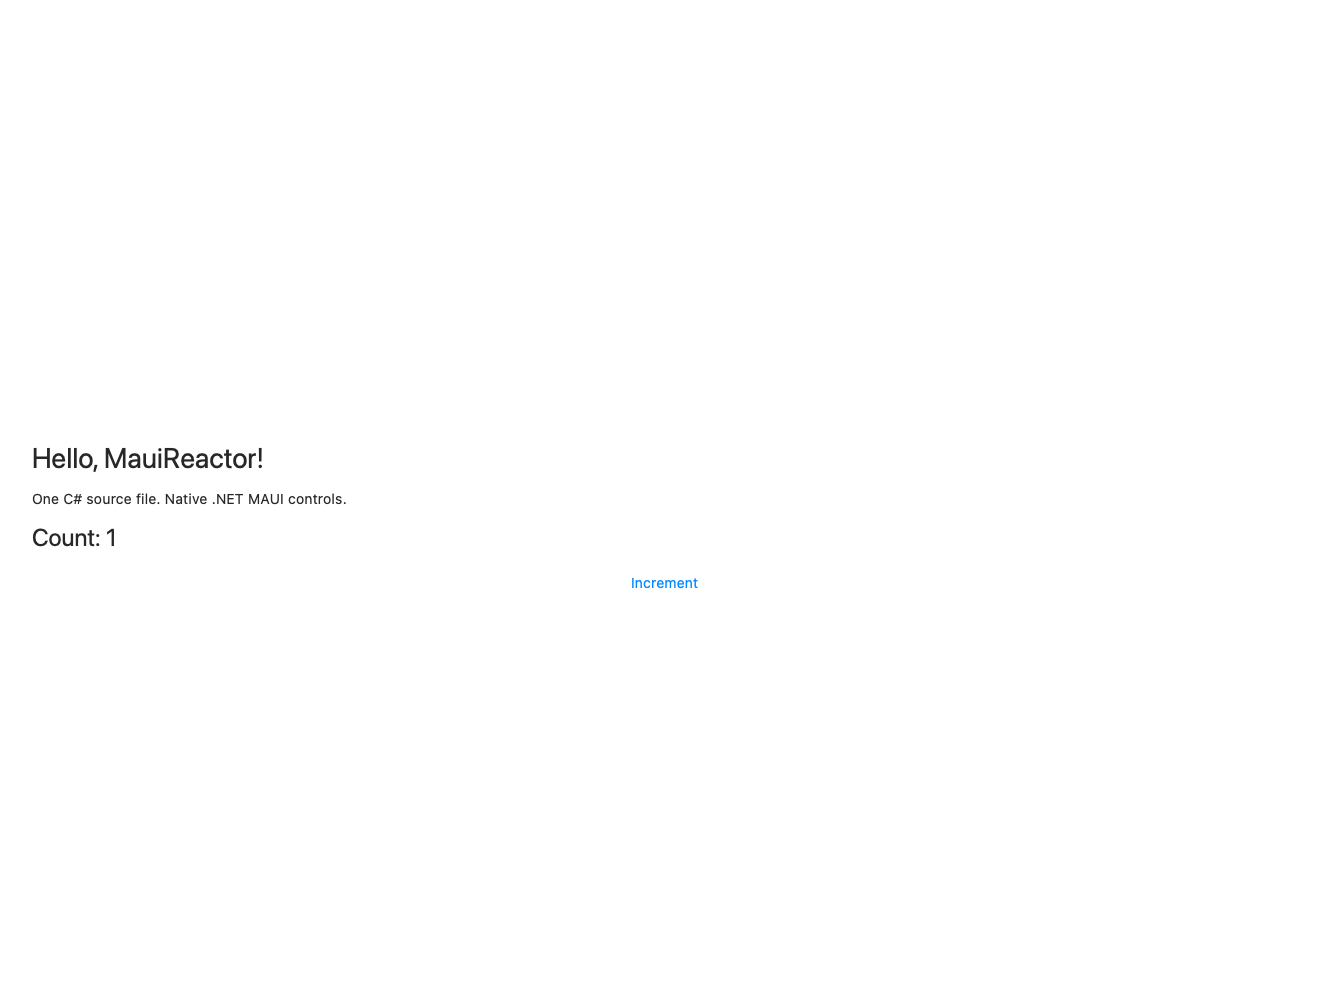
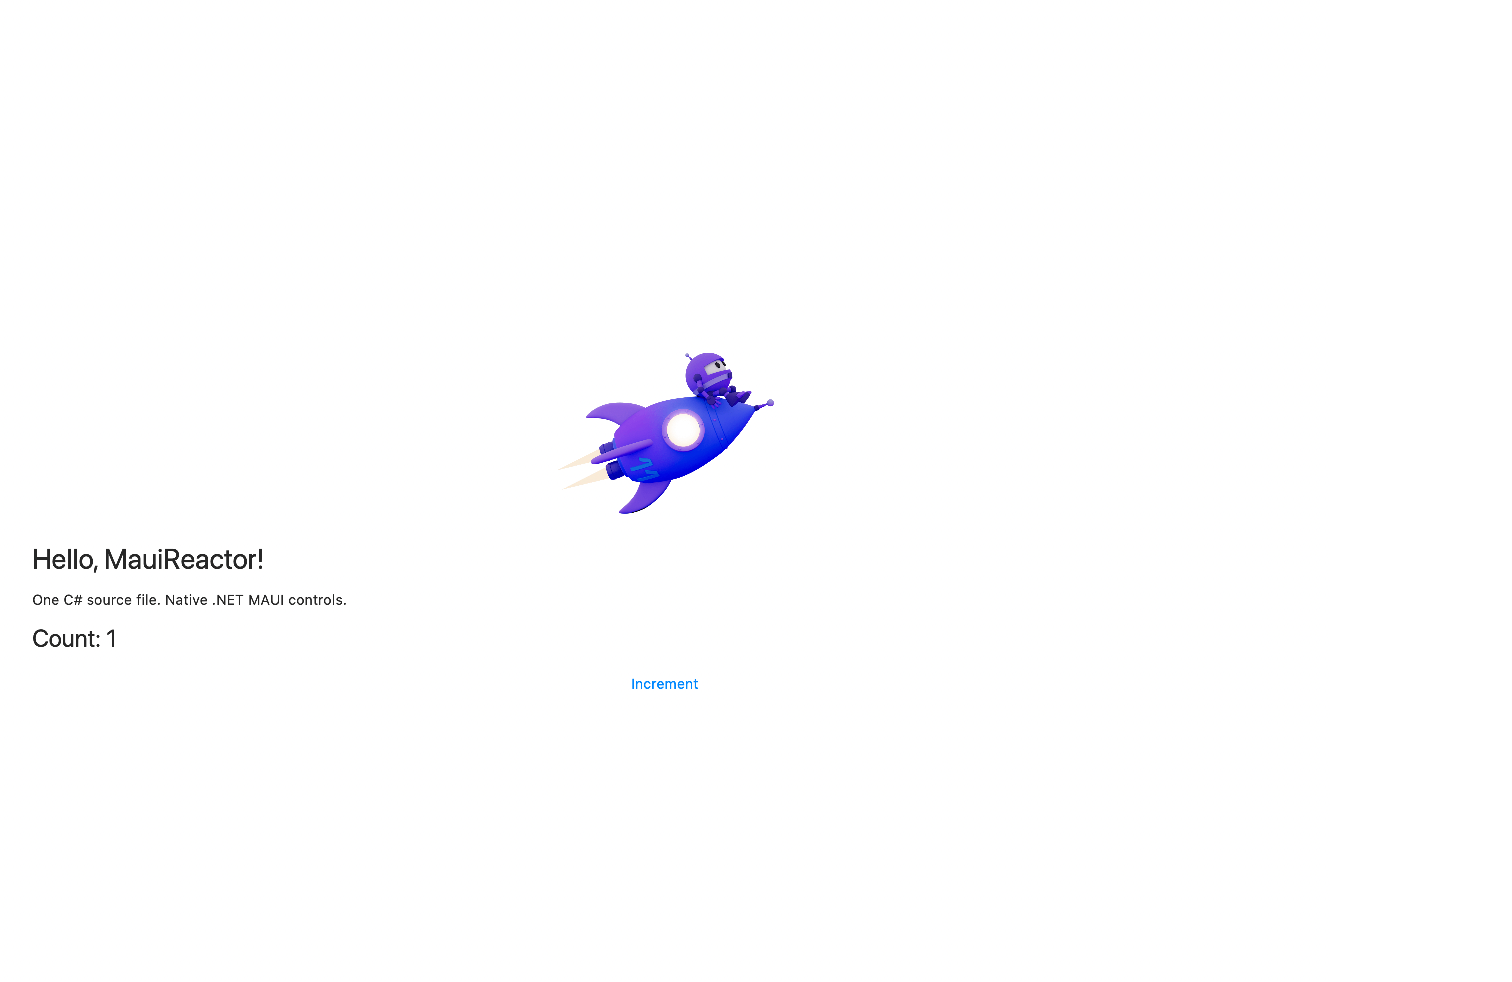
Add Resources/ asset support and .NET 11 bot sample (0.1.0-preview.2)
- SDK includes Resources/Images, Resources/Fonts, and Resources/Raw next to
  app.cs and registers fonts by file name.
- Set FileBasedProgramCanSkipMSBuild=false so an unchanged rerun opens the app.
- Counter sample and template show the .NET 11 MAUI template dotnet_bot.png
  (dotnet/maui 4438dc6).
- README: supported targets and an assets snippet; docs, blog, and hero
  screenshot updated.

diff --git a/samples/Counter/app.cs b/samples/Counter/app.cs
@@ -1,4 +1,4 @@
-#:sdk MauiReactor.FileBased.Sdk@0.1.0-preview.1
+#:sdk MauiReactor.FileBased.Sdk@0.1.0-preview.2
 
 public class CounterState
 {
@@ -10,6 +10,9 @@ public class App : Component<CounterState>
     public override VisualNode Render()
         => ContentPage(
             VStack(
+                Image("dotnet_bot.png")
+                    .HeightRequest(185)
+                    .AutomationId("dotnet-bot"),
                 Label("Hello, MauiReactor!").FontSize(28),
                 Label("One C# source file. Native .NET MAUI controls."),
                 Label($"Count: {State.Count}")

diff --git a/src/MauiReactor.Sdk/Sdk/Startup.cs b/src/MauiReactor.Sdk/Sdk/Startup.cs
@@ -19,7 +19,9 @@ public class AppDelegate : MauiUIApplicationDelegate
 {
     protected override MauiApp CreateMauiApp()
     {
-        var builder = MauiApp.CreateBuilder().UseMauiReactorApp<global::App>();
+        var builder = MauiApp.CreateBuilder()
+            .UseMauiReactorApp<global::App>()
+            .ConfigureFonts(MauiReactorFileBasedFonts.Register);
 #if DEBUG && MAUI_REACTOR_DEVFLOW
         builder.AddMauiDevFlowAgent();
 #endif

diff --git a/docs/getting-started.md b/docs/getting-started.md
@@ -95,6 +95,7 @@ Published package visibility is controlled separately from repository visibility
 dotnet run samples/Counter/app.cs
 ```
 
+The window shows the .NET bot image from `samples/Counter/Resources/Images/`.
 Click **Increment**. The counter changes from `Count: 0` to `Count: 1`.
 The value is in-memory component state. It resets when the process exits.
 
@@ -113,14 +114,15 @@ cd artifacts/HelloReactor
 dotnet run app.cs
 ```
 
-The output is one `app.cs` file. It inherits the feed and .NET 10 selection
+The output is one `app.cs` file and the `Resources/Images/dotnet_bot.png` image
+it shows. It inherits the feed and .NET 10 selection
 from the sample's parent directories. The app title defaults to `HelloReactor`.
 The template does not run restore or change a global NuGet configuration.
 
 To generate somewhere else, put a `NuGet.config` in that location or a parent
 directory. Copy this checkout's `NuGet.config` and `global.json`, and set the
 same credential environment variable in your shell. You can then install this
-template by its checkout path and generate the same single C# file.
+template by its checkout path and generate the same single C# file and image.
 
 If an older checkout has already installed `maui-reactor-file`, the template
 engine can report conflicting templates. `dotnet new uninstall` lists the
@@ -134,7 +136,7 @@ source files. Do not remove another project's registration without checking it.
 The complete app is:
 
 ```csharp
-#:sdk MauiReactor.FileBased.Sdk@0.1.0-preview.1
+#:sdk MauiReactor.FileBased.Sdk@0.1.0-preview.2
 
 public class CounterState
 {
@@ -146,6 +148,9 @@ public class App : Component<CounterState>
     public override VisualNode Render()
         => ContentPage(
             VStack(
+                Image("dotnet_bot.png")
+                    .HeightRequest(185)
+                    .AutomationId("dotnet-bot"),
                 Label("Hello, MauiReactor!").FontSize(28),
                 Label("One C# source file. Native .NET MAUI controls."),
                 Label($"Count: {State.Count}")
@@ -167,7 +172,7 @@ parameterless constructor. The SDK's startup calls
 
 `Component<CounterState>` supplies `State` and `SetState`. The button callback
 changes state, and MauiReactor updates the native MAUI controls.
-`ContentPage`, `VStack`, `Label`, and `Button` are inherited factory methods.
+`ContentPage`, `VStack`, `Image`, `Label`, and `Button` are inherited factory methods.
 They keep the markup free of constructor syntax.
 
 The SDK adds `global using MauiReactor`. It disables implicit MAUI namespace
@@ -180,7 +185,7 @@ types. Add explicit namespace imports for other libraries when needed.
 support SDK, package, and property directives:
 
 ```csharp
-#:sdk MauiReactor.FileBased.Sdk@0.1.0-preview.1
+#:sdk MauiReactor.FileBased.Sdk@0.1.0-preview.2
 #:property ApplicationTitle=MyCounter
 #:property ApplicationId=com.example.mycounter
 ```
@@ -224,6 +229,57 @@ Apple SDK 27 requires scene-based lifecycle adoption. Omitting that metadata
 caused a native launch failure during development. The packaged manifest keeps
 this requirement out of the user's C# source.
 
+## Add images, fonts, and files
+
+Put resources in `Resources/` folders next to `app.cs`, as in a regular MAUI
+project:
+
+```text
+MyApp/
+├── app.cs
+└── Resources/
+    ├── Images/dotnet_bot.png
+    ├── Fonts/OpenSans-Semibold.ttf
+    └── Raw/data/hello.json
+```
+
+The .NET MAUI SDK does not add these folders by default. This SDK adds them,
+relative to the directory that contains `app.cs`:
+
+| Folder | MSBuild item | Use in code |
+|---|---|---|
+| `Resources/Images/**` | `MauiImage` | `Image("dotnet_bot.png")` |
+| `Resources/Fonts/**` | `MauiFont` | `.FontFamily("OpenSans-Semibold")` |
+| `Resources/Raw/**` | `MauiAsset`, logical name keeps the subfolder path | `FileSystem.OpenAppPackageFileAsync("data/hello.json")` |
+
+- **Images.** MAUI's resizetizer converts SVG files to PNG, so refer to
+  `logo.svg` as `"logo.png"`. The SDK does not set `BaseSize`. Set the size in
+  markup, for example `.HeightRequest(185)`.
+- **Fonts.** The SDK generates a `ConfigureFonts` registration for every file in
+  `Resources/Fonts/`. The alias is the file name without its extension. You do
+  not write a `MauiProgram`.
+- **Raw files.** Read them with `FileSystem.OpenAppPackageFileAsync`. Add
+  `using Microsoft.Maui.Storage;`, because the SDK disables implicit MAUI imports.
+  Use the same rule for `Aspect` and other MAUI types: add `using Microsoft.Maui;`
+  or use the full type name.
+
+Items that you already declared are not added twice. To add your own items only,
+turn off the automatic folders:
+
+```csharp
+#:property MauiReactorEnableDefaultResourceItems=false
+```
+
+The sample's `dotnet_bot.png` is the unchanged .NET 11 MAUI template image from
+[dotnet/maui](https://github.com/dotnet/maui):
+`src/Templates/src/templates/maui-mobile/Resources/Images/dotnet_bot.png`, added
+in commit
+[`4438dc6`](https://github.com/dotnet/maui/commit/4438dc6258f42593cd43da4db7527be96c78e69e)
+("Update .NET 11 template bot artwork", dotnet/maui#37785).
+
+App icons (`MauiIcon`) and splash screens (`MauiSplashScreen`) are not
+configured automatically.
+
 ## Inspect the app with DevFlow
 
 The SDK includes and registers the DevFlow agent only for Debug builds.
@@ -266,7 +322,10 @@ This check is not a store-distribution or security audit.
 ## Edit and rerun
 
 Quit the app, edit `app.cs`, and run `dotnet run app.cs` again. The .NET SDK
-rebuilds changed source. A second `open` of a running Mac Catalyst app can reuse
+rebuilds changed source. The SDK sets `FileBasedProgramCanSkipMSBuild=false`, so
+a rerun always goes through MSBuild and opens the app bundle. Without it, an
+unchanged rerun in preview.1 could run the DLL directly and fail with a
+`libhostpolicy.dylib` error. A second `open` of a running Mac Catalyst app can reuse
 the existing process, so quit before checking a source edit.
 
 Reactive updates through `SetState` are runtime state changes. They are separate
@@ -294,6 +353,18 @@ still needs a compatible workload, simulator or device, and platform-specific
 deployment settings. This guide does not claim that changing one directive
 proves that platform.
 
+### Known issue: very deep source folders
+
+With the Mac Catalyst workload 26.2.10191, a build can fail in the `Codesign`
+task with `Access to the path '/Users/Library' is denied`. This occurs when the
+folder that contains `app.cs` is about ten or more levels below `/`. The Apple
+SDK computes a stamp-file path relative to the source folder, but the file-based
+build output is in `~/Library/Application Support/dotnet/runfile/`, so the path
+climbs above your home folder. Move the app to a shorter path, for example
+`~/src/MyApp/app.cs`. The Apple SDK fix is
+[dotnet/macios#27050](https://github.com/dotnet/macios/pull/27050)
+(dotnet/macios#26867); a workload that contains it was not checked here.
+
 MauiReactor itself supports more targets than this small sample SDK. Use the
 upstream template for those platforms.
 
@@ -303,7 +374,7 @@ This is a **standalone native app**, not a companion-hosted script. The .NET SDK
 builds the source into an app bundle in its file-based build cache. There is no
 Go server, QR pairing step, or network code loader.
 
-The prototype has no app icon, custom fonts, splash assets, privacy permission
+The prototype has no app icon, splash assets, privacy permission
 strings, signing setup, entitlements file, or store packaging workflow.
 It does not enable Reactor's code hot reload or provide multi-file authoring.
 Counter state is not persistent storage.
@@ -348,7 +419,7 @@ Local development does not need a GitHub publishing token:
 ```console
 dotnet pack src/MauiReactor.Sdk/MauiReactor.Sdk.csproj -o artifacts/feed
 mkdir -p artifacts/LocalCounter
-cp samples/Counter/app.cs artifacts/LocalCounter/app.cs
+cp -R samples/Counter/app.cs samples/Counter/Resources artifacts/LocalCounter/
 ```
 
 Create `artifacts/NuGet.config` with the following content. Its paths are relative

diff --git a/README.md b/README.md
@@ -4,8 +4,13 @@ Build a native .NET MAUI app in one C# file. Describe the UI with
 [MauiReactor](https://github.com/adospace/reactorui-maui) control methods,
 update component state, and run it with `dotnet run app.cs`.
 
+**Supported targets in this preview:** Mac Catalyst on Apple Silicon is tested.
+iOS startup is included, but builds and runtime behavior are untested.
+Android, Windows, and Linux are **not supported**; the SDK reports an error for
+these targets. Use a standard MauiReactor project for other platforms.
+
 ```csharp
-#:sdk MauiReactor.FileBased.Sdk@0.1.0-preview.1
+#:sdk MauiReactor.FileBased.Sdk@0.1.0-preview.2
 
 public class CounterState
 {
@@ -17,6 +22,9 @@ public class App : Component<CounterState>
     public override VisualNode Render()
         => ContentPage(
             VStack(
+                Image("dotnet_bot.png")
+                    .HeightRequest(185)
+                    .AutomationId("dotnet-bot"),
                 Label("Hello, MauiReactor!").FontSize(28),
                 Label("One C# source file. Native .NET MAUI controls."),
                 Label($"Count: {State.Count}")
@@ -32,7 +40,7 @@ public class App : Component<CounterState>
 }
 ```
 
-That is the complete counter. You write the component while a small MSBuild SDK
+That is the complete counter, plus one image file in `Resources/Images/`. You write the component while a small MSBuild SDK
 supplies package references, native startup, application defaults, and the Apple
 scene manifest. There is no user-authored project file or XAML.
 
@@ -114,15 +122,42 @@ integrated. The SDK includes DevFlow in Debug builds for UI inspection and
 automation; [omit it](docs/getting-started.md#inspect-the-app-with-devflow)
 with `#:property MauiReactorEnableDevFlow=false`.
 
+## Add images, fonts, and files
+
+Put resources in `Resources/` folders next to `app.cs`, as in a regular MAUI
+project. The SDK includes them automatically:
+
+```text
+MyApp/
+├── app.cs
+└── Resources/
+    ├── Images/dotnet_bot.png        → MauiImage
+    ├── Fonts/OpenSans-Semibold.ttf  → MauiFont
+    └── Raw/data/hello.json          → MauiAsset
+```
+
+Refer to them with standard MAUI names:
+
+```csharp
+Image("dotnet_bot.png").HeightRequest(185)          // SVG files become PNG: use "name.png"
+Label("Hi").FontFamily("OpenSans-Semibold")         // font alias = file name without extension
+await FileSystem.OpenAppPackageFileAsync("data/hello.json");
+```
+
+The SDK registers each font for you. See
+[Add images, fonts, and files](docs/getting-started.md#add-images-fonts-and-files)
+for details and the opt-out property.
+
 ## Know the limits
 
 | Target or feature | Status |
 |---|---|
 | Mac Catalyst, Apple Silicon | Sample and template launch; counter interaction checked |
 | iOS | Startup source included; build and runtime untested |
-| Android, Windows, Linux | No startup implementation in this SDK |
+| Android, Windows, Linux | Not supported; the SDK reports an error for these targets |
 | Hot reload | Not integrated; quit, edit, rerun |
-| Icons, resources, signing, store packaging | Not configured |
+| Images, fonts, raw files | Included from `Resources/Images`, `Resources/Fonts`, `Resources/Raw` |
+| App icon, splash screen, signing, store packaging | Not configured |
 | SDK distribution | GitHub Packages preview; authentication required |
 | Template distribution | Install from this checkout |
 

diff --git a/docs/blog-draft.md b/docs/blog-draft.md
@@ -34,7 +34,7 @@ The source includes iOS startup, but Android and Windows startup are not include
 ## Start with the app
 
 ```csharp
-#:sdk MauiReactor.FileBased.Sdk@0.1.0-preview.1
+#:sdk MauiReactor.FileBased.Sdk@0.1.0-preview.2
 
 public class CounterState
 {
@@ -46,6 +46,9 @@ public class App : Component<CounterState>
     public override VisualNode Render()
         => ContentPage(
             VStack(
+                Image("dotnet_bot.png")
+                    .HeightRequest(185)
+                    .AutomationId("dotnet-bot"),
                 Label("Hello, MauiReactor!").FontSize(28),
                 Label("One C# source file. Native .NET MAUI controls."),
                 Label($"Count: {State.Count}")
@@ -65,7 +68,12 @@ That is the full user-authored application. The root component is a public
 `App` class in the global namespace. The SDK supplies a `MauiReactor` namespace
 import, so the component can use the library's inherited control methods.
 
-`ContentPage`, `VStack`, `Label`, and `Button` are methods on the component API.
+The image is a normal file in `Resources/Images/` next to `app.cs`. The SDK
+picks up `Resources/Images`, `Resources/Fonts`, and `Resources/Raw` the same way
+a MAUI project does, and registers fonts for you. The bot is the .NET 11 MAUI
+template artwork.
+
+`ContentPage`, `VStack`, `Image`, `Label`, and `Button` are methods on the component API.
 There is no need to write `new` for each control. The nesting still shows the
 structure of the page, while methods such as `Spacing` and `Padding` describe
 the layout.
@@ -111,7 +119,7 @@ counter itself.
 The custom SDK reduces the header to one directive:
 
 ```csharp
-#:sdk MauiReactor.FileBased.Sdk@0.1.0-preview.1
+#:sdk MauiReactor.FileBased.Sdk@0.1.0-preview.2
 ```
 
 An SDK is useful here because the target framework must be known before normal
@@ -203,7 +211,7 @@ MauiReactor's control methods and state model. The
 [detailed guide](getting-started.md) covers directives, manifests, feeds,
 platform limits, and the exact runtime checks.
 
-For an app that needs more platforms, resources, signing, or the established hot
+For an app that needs more platforms, an app icon, signing, or the established hot
 reload workflow, start with MauiReactor's
 [`Reactor.Maui.TemplatePack`](https://github.com/adospace/reactorui-maui#quick-start)
 and move the component into that project. You can keep the same style of UI

diff --git a/src/MauiReactor.Sdk/README.md b/src/MauiReactor.Sdk/README.md
@@ -7,7 +7,7 @@ library of its own. Previews are distributed through
 [GitHub Packages](https://github.com/davidortinau/MauiReactor.FileBased/packages),
 not NuGet.org. This is a personal experiment, not an official Microsoft release.
 
-The sample uses `#:sdk MauiReactor.FileBased.Sdk@0.1.0-preview.1`.
+The sample uses `#:sdk MauiReactor.FileBased.Sdk@0.1.0-preview.2`.
 Configure the GitHub Packages feed and authenticate with a personal access token
 (classic) with `read:packages`, as described in the
 [repository README](https://github.com/davidortinau/MauiReactor.FileBased#run-the-counter).
@@ -43,6 +43,7 @@ repository. Override them with `#:property` directives when needed:
 | `MauiControlsPackageVersion` | `10.0.41` |
 | `MauiDevFlowPackageVersion` | `0.1.0-preview.13.26512.5` |
 | `MauiReactorEnableDevFlow` | `true` (Debug only) |
+| `MauiReactorEnableDefaultResourceItems` | `true`: include `Resources/Images`, `Resources/Fonts`, and `Resources/Raw` next to `app.cs`, and register fonts by file name |
 
 Other version combinations are untested. The SDK disables Central Package
 Management for its consumer project. Extra dependencies can use `#:package`.
